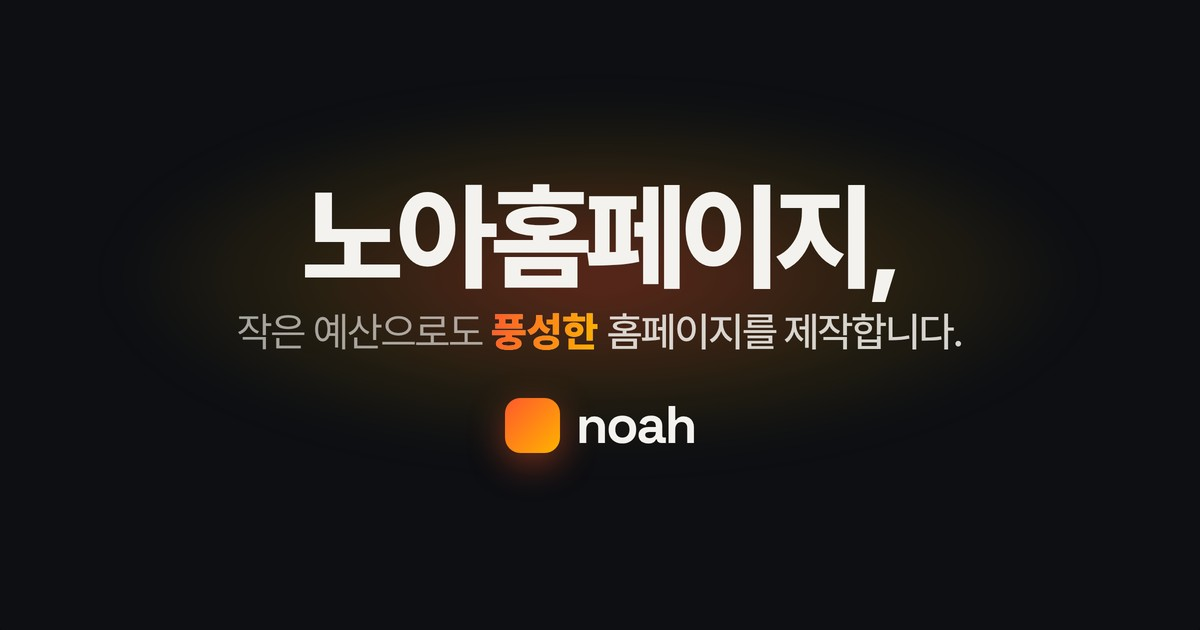
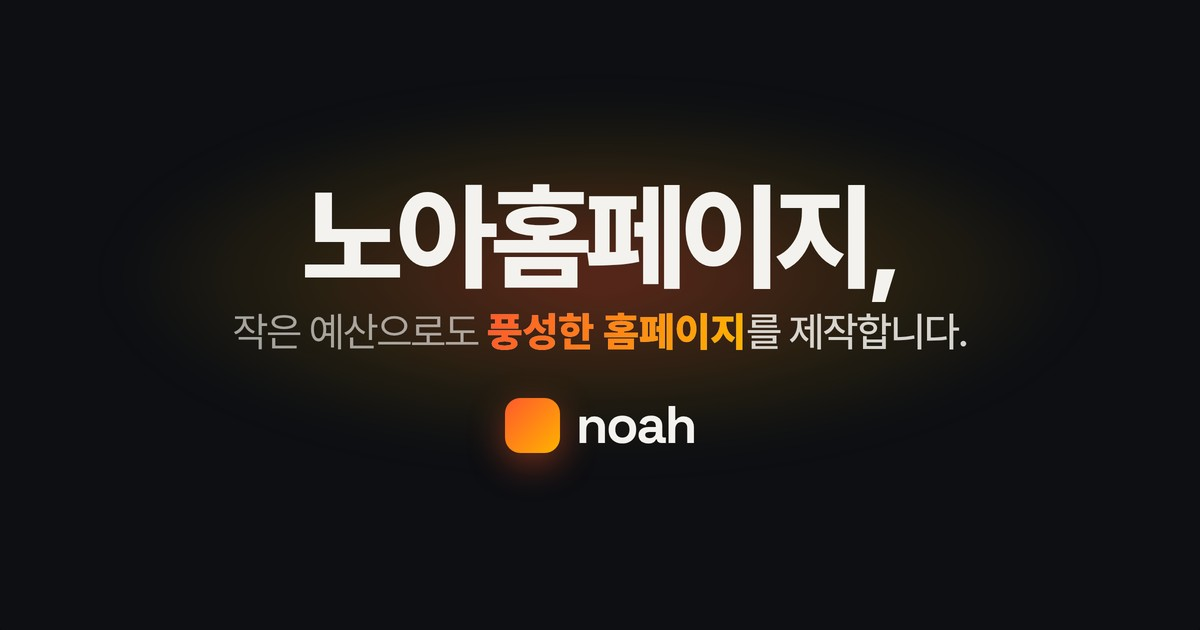
fix: 쇼케이스 옆 디자인 휴대폰이 가운데 모니터에 겹치던 것 + 인트로 '풍성한 홈페이지'까지 강조
- 옆 디자인 거리를 화면 폭 비율 대신 기기 크기로 계산 → 왼쪽 옆 휴대폰과 가운데 모니터,
  가운데 휴대폰과 오른쪽 옆 모니터 사이에 항상 32px 이상 띄움 (태블릿 가로·1024px 근처에서 약 10px 겹치던 문제)
- 세로로 긴 화면(태블릿 세로)은 위 모니터·아래 휴대폰 두 줄로 → 820×1180 기준 모니터 475→524px, 휴대폰 124→169px
- 두 줄 배치에서도 옆 디자인이 화면 폭 12%쯤 걸쳐 보이게
- 인트로: 강조 범위를 '풍성한' → '풍성한 홈페이지'로 넓힘(굵게 + 주황 그라데이션), 링크 미리보기 이미지도 같게 갱신

Claude-Session: https://claude.ai/code/session_01QuzkGRZqNVVJ4rRi9WRLso

Changed region(s): [[0.185, 0.4825, 0.8017, 0.573]]

diff --git a/index.html b/index.html
@@ -73,7 +73,7 @@
         } catch (e) {}
       })();
     </script>
-    <link rel="stylesheet" href="/assets/showcase/intro.css?v=a29b3d90" />
+    <link rel="stylesheet" href="/assets/showcase/intro.css?v=91eb6ccf" />
     <link rel="stylesheet" href="/assets/css/site.css?v=eb96b2ba" />
     <style>
       /* 사진 — 히어로 와이드 · 제목 옆 카드 · 진행 방식 오른쪽 칸 · 수정 상자 띠 */
@@ -300,7 +300,7 @@
       <div class="sc-splash" data-sc-splash tabindex="-1">
         <p class="sp-copy">
           <span class="sp-l1" aria-hidden="true"><span class="sp-m"><span class="sp-i" style="--i:0">노</span></span><span class="sp-m"><span class="sp-i" style="--i:1">아</span></span><span class="sp-m"><span class="sp-i" style="--i:2">홈</span></span><span class="sp-m"><span class="sp-i" style="--i:3">페</span></span><span class="sp-m"><span class="sp-i" style="--i:4">이</span></span><span class="sp-m"><span class="sp-i" style="--i:5">지</span></span><span class="sp-m"><span class="sp-i" style="--i:6">,</span></span></span>
-          <span class="sp-l2" aria-hidden="true"><span class="sp-m"><span class="sp-i sp-small" style="--i:0">작은 예산으로도</span></span> <span class="sp-m"><span class="sp-i sp-rich" style="--i:1">풍성한</span></span> <span class="sp-m"><span class="sp-i" style="--i:2">홈페이지를</span></span> <span class="sp-m"><span class="sp-i" style="--i:3">제작합니다.</span></span></span>
+          <span class="sp-l2" aria-hidden="true"><span class="sp-m"><span class="sp-i sp-small" style="--i:0">작은 예산으로도</span></span> <span class="sp-m"><span class="sp-i sp-rich" style="--i:1">풍성한 홈페이지</span></span><span class="sp-m"><span class="sp-i" style="--i:1">를</span></span> <span class="sp-m"><span class="sp-i" style="--i:2">제작합니다.</span></span></span>
           <span class="sr-only">노아홈페이지, 작은 예산으로도 풍성한 홈페이지를 제작합니다.</span>
         </p>
         <p class="sp-logo"><span class="sp-mark" aria-hidden="true"></span><span class="sp-word">noah</span></p>
@@ -852,6 +852,6 @@
     </div>
     <script src="./assets/js/showroom.js?v=f9a06350" defer></script>
     <script src="/assets/js/site.js?v=a5f8f4bd"></script>
-    <script type="module" src="/assets/showcase/intro.js?v=f98e1b82"></script>
+    <script type="module" src="/assets/showcase/intro.js?v=f77c980c"></script>
   </body>
 </html>

diff --git a/assets/showcase/intro.js b/assets/showcase/intro.js
@@ -77,7 +77,7 @@ function measure() {
   const stage = $('.sc-stage');
   const H = stage.clientHeight;
   const W = root.clientWidth;
-  const narrow = W < 720;
+  const narrow = W < 720 || W < root.clientHeight * 0.95;   // 휴대폰·세로로 긴 화면(태블릿 세로)은 위아래 두 줄이 더 크게 보임
   root.dataset.layout = narrow ? 'rows' : 'pair';
   if (!narrow) {
     // 모니터(받침 포함) 높이 = 폭 × 0.725 — 무대 높이의 86%, 화면 폭의 58%까지
@@ -128,13 +128,21 @@ function place() {
         op = a === 0 ? 1 : 0;
         [mT, pT] = a === 0 ? pairT(0, k, 0) : pairT(sgn * W * 0.75, 0.7, -sgn * 14);
       } else {
-        // 고르기: 가운데 크게, 바로 옆 디자인은 화면 가장자리에 반쯤 걸쳐 보이게
+        // 고르기: 가운데 크게, 바로 옆 디자인은 화면 가장자리에 반쯤 걸쳐 보이게.
+        // 옆 쌍이 가운데 쌍을 덮지 않도록 기기 크기로 거리를 잡음 (휴대폰 줄이 모니터 줄보다 위에 그려지므로
+        // 왼쪽 옆 쌍의 휴대폰 오른쪽 끝 ≤ 가운데 모니터 왼쪽 끝, 오른쪽 옆 쌍의 모니터 왼쪽 끝 ≥ 가운데 휴대폰 오른쪽 끝)
+        const s = a === 1 ? 0.72 : 0.6;
+        const gap = 32;
+        const dx = sgn < 0
+          ? Math.max(W * 0.52, mw * (0.58 + 0.47 * s) + gap)
+          : Math.max(W * 0.52, mw * (0.47 + 0.58 * s) + gap);
         op = a === 0 ? 1 : a === 1 ? 0.55 : 0;
-        [mT, pT] = a === 0 ? pairT(0, 1, 0) : pairT(sgn * W * (a === 1 ? 0.52 : 0.9), a === 1 ? 0.72 : 0.6, -sgn * 14);
+        [mT, pT] = a === 0 ? pairT(0, 1, 0) : pairT(sgn * (a === 1 ? dx : dx + W * 0.4), s, -sgn * 14);
       }
     } else {
       const { pw, prow, gap } = geo;
-      const x = a === 0 ? 0 : sgn * W * (0.7 + (a - 1) * 0.5);   // 바로 옆 디자인이 가장자리에 걸쳐 보이게
+      // 바로 옆 디자인이 화면 폭의 12%쯤 가장자리에 걸쳐 보이게 (같은 줄끼리는 가운데가 위에 그려져 겹쳐도 가려짐)
+      const x = a === 0 ? 0 : sgn * (W * 0.38 + mw * 0.39 + (a - 1) * W * 0.5);
       const s = SCALE[Math.min(a, 3)];
       const rot = -sgn * Math.min(a, 3) * 10;
       op = a === 0 ? 1 : a === 1 ? 0.5 : 0;

diff --git a/assets/showcase/intro.css b/assets/showcase/intro.css
@@ -48,7 +48,7 @@
 .sp-i { display: inline-block; transform: translateY(108%); animation: sp-rise 1s cubic-bezier(0.2, 0.8, 0.2, 1) forwards; animation-delay: calc(0.2s + var(--i) * 90ms); }
 .sp-l2 .sp-i { animation-delay: calc(1.1s + var(--i) * 150ms); }
 .sp-small { font-weight: 400; color: rgba(244, 242, 238, 0.64); }
-/* "풍성한" — 굵게 부풀면서 주황 그라데이션이 왼쪽부터 채워짐 (글자 하나에 배경을 채워 가장자리가 겹치지 않게) */
+/* "풍성한 홈페이지" — 굵게 부풀면서 주황 그라데이션이 왼쪽부터 채워짐 (글자 하나에 배경을 채워 가장자리가 겹치지 않게) */
 .sp-l2 .sp-rich {
   font-weight: 400; color: transparent; -webkit-text-fill-color: transparent;
   background-image: linear-gradient(100deg, #FF5A2B, #FFB300), linear-gradient(#f4f2ee, #f4f2ee);
